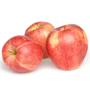
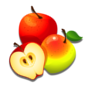
2ème tentative comment + img + title
J'espère que j'ai bien compris le code, sinon j'ai également remplacé et
ajouté les images que j'ai travaillé en ne changeant pas les dimensions
et le format (elles ont un fond transparent) et ajouté l'image du titre
"smoothlife" et non "smoothie life" (cependant là les deux images sont
présentes dans le dossier je saurais pas expliqué pourquoi)

diff --git a/smoothies/make.js b/smoothies/make.js
@@ -1,3 +1,4 @@
+// Le but des fonctions specifiques a cette page est de permettre au client de creer un smoothie et devant toujours contenir un Green, un fruit 1 un fruit 2 et un complement ou graines le tout ayant un certain prix individuel et additionner//
 Meteor.methods({
 	'createSmoothie': function(oGreen, oFruit1, oFruit2, oSeed, oPrice){
 		check();
@@ -10,6 +11,7 @@ Meteor.methods({
 		});
 	}
 });
+//va chercher dans la base de donnee et liste pour l'utilisateur les Green, fruits, grains presents//
 if (Meteor.isClient){
 Template.make.helpers({
 	'greenList': function(){
@@ -24,6 +26,7 @@ Template.make.helpers({
 		var type="Seed";
 			return ingredients.find({typ: type});
 	},
+	// Donne a l'utilisateur la quantite finale//
 	'sumQty': function(){
 		if (isNaN(Session.get('greenQty'))) {
 			var greenQty = 0;
@@ -52,6 +55,7 @@ Template.make.helpers({
 		var sumQty = greenQty + fruit1Qty + fruit2Qty + seedQty;
 		return sumQty;
 	},
+	// Donne a l'utilisateur les calories finales //
 	'sumCal': function(){
 		if (isNaN(Session.get('greenCal'))) {
 			var greenCal = 0;
@@ -80,6 +84,7 @@ Template.make.helpers({
 		var sumCal = greenCal + fruit1Cal + fruit2Cal + seedCal;
 		return sumCal;
 	},
+	// Donne a l'utilisateur le prix final
 	'sumPri': function(){
 		if (isNaN(Session.get('greenPri'))) {
 			var greenPri = 0;
@@ -122,6 +127,7 @@ Template.make.events({
 		/* Call Method to Create Smoothie in Collection */
 		Meteor.call('createSmoothie', oGreen, oFruit1, oFruit2, oSeed, oPrice);
 	},
+	// la fonction permettant de refaire le formulaire et donc de recreer le smoothie//
 	'reset form': function(){
 		Session.set('greenQty', 0);
 		Session.set('greenCal', 0);
@@ -153,6 +159,7 @@ Template.make.events({
 		document.getElementById("SeedImg").innerHTML="<img class=\"icoIng\" src=\"img/blankIco.png\">";
 
 	},
+	// permet a l'utilisateur de changer le Green a tout moment//
 	'change .greenOption': function(){
 		var greenOption = document.getElementById("Green").value;
 		var oGreen = ingredients.findOne({nam: document.getElementById("Green").value});
@@ -178,6 +185,7 @@ Template.make.events({
 			document.getElementById("GreenImg").innerHTML="<img class=\"icoIng\" src=\"img/blankIco.png\">";
 		}
 	},
+	 // permet a l'utilisateur de changer le Fruit 1 a tout moment//
 	'change .fruit1Option': function(){
 		var fruit1Option = document.getElementById("Fruit1").value;
 		var oFruit1 = ingredients.findOne({nam: document.getElementById("Fruit1").value});
@@ -203,6 +211,7 @@ Template.make.events({
 			document.getElementById("Fruit1Img").innerHTML="<img class=\"icoIng\" src=\"img/blankIco.png\">";
 		}
 	},
+	// permet a l'utilisateur de changer le Fruit 2 a tout moment//
 	'change .fruit2Option': function(){
 		var fruit2Option = document.getElementById("Fruit2").value;
 		var oFruit2 = ingredients.findOne({nam: document.getElementById("Fruit2").value});
@@ -228,6 +237,7 @@ Template.make.events({
 			document.getElementById("Fruit2Img").innerHTML="<img class=\"icoIng\" src=\"img/blankIco.png\">";
 		}
 	},
+	// permet a l'utilisateur de changer les graines ou complement a tout moment//
 	'change .seedOption': function(){
 		var seedOption = document.getElementById("Seed").value;
 		var oSeed = ingredients.findOne({nam: document.getElementById("Seed").value});

diff --git a/smoothies/make.html b/smoothies/make.html
@@ -1,10 +1,12 @@
 <template name='make'>
+<!-- contrôle que l'utilisateur soit connecter-->
 	{{#if currentUser}}
 		<div class="tableContainer">
 		<table>
 			<tr class="smoothieOrderTr">
 				<td class="thtd3left"><a href="/"><img src="img/smoothlife_title.jpg"></a></td>
 				<td class="thtd3center"><h2>MAKE YOUR SMOOTHIE</h2></td>
+				<!--permet à l'utilisateur de se connecter-->
 				<td class="thtd3right">{{> loginButtons}}</td>
 			</tr>
 		</table>
@@ -13,6 +15,7 @@
 	<form>
 		<table width="100%">
 			<tr class="smoothieOrderTr">
+			<!--affiche le tableau qui contiendra les infos, prix, image, etc, des ingredients du smoothie voulu-->
 				<th class="smoothieOrderTh">Ingredients</th>
 				<th class="smoothieOrderTh">Quantity [g]</th>
 				<th class="smoothieOrderTh">Calories [kcal]</th>
@@ -30,7 +33,7 @@
       				{{/each}}
     			</select>
     		</div>
-    	</td>		
+    	</td>	<!--permet à l'utilisateur de choisir son Green, avec les differentes infos qui sont associer-->	
 		<td class="smoothieOrderTd" id="GreenQty"></td>
 		<td class="smoothieOrderTd" id="GreenCal"></td>
 		<td class="smoothieOrderTd" id="GreenPri"></td>
@@ -47,7 +50,7 @@
       				{{/each}}
     			</select>
     		</div>
-    	</td>
+    	</td> <!--permet à l'utilisateur de choisir son fruit numero 1, avec les differentes infos qui sont associer-->
 		<td class="smoothieOrderTd" id="Fruit1Qty"></td>
 		<td class="smoothieOrderTd" id="Fruit1Cal"></td>
 		<td class="smoothieOrderTd" id="Fruit1Pri"></td>
@@ -64,6 +67,7 @@
       				{{/each}}
     			</select>
     		</div>
+    		<!--permet à l'utilisateur de choisir son fruit numero 2, avec les differentes infos qui sont associer-->
     	</td>
 		<td class="smoothieOrderTd" id="Fruit2Qty"></td>
 		<td class="smoothieOrderTd" id="Fruit2Cal"></td>
@@ -81,6 +85,7 @@
       			{{/each}}
     		</select>
     		</div>
+    		<!--permet à l'utilisateur de choisir le complement, les graines, avec les differentes infos qui sont associer-->
     	</td>
 		<td class="smoothieOrderTd" id="SeedQty"></td>
 		<td class="smoothieOrderTd" id="SeedCal"></td>
@@ -95,6 +100,7 @@
 		<input type="reset" value="Reset">
 		</div>
 		</td>
+		<!--affiche le resultats, le resume, avec les differents element selectionner par l'utilisateur et l'additions des calories prix etc.-->
 		<td class="smoothieOrderTd" id="sumQty">{{sumQty}} g</td>
 		<td class="smoothieOrderTd" id="sumCal">{{sumCal}} kcal</td>
 		<td class="smoothieOrderTd" id="sumPri">{{sumPri}} Frs.</td>
@@ -104,6 +110,7 @@
 	</form>
 	</div>
 	{{else}}
+	<!-- oblige à l'utilisateur de se connecter-->
 		<p class="logo">Please Sign in or Create account.
 		<br><br>{{> loginButtons}}</p>
 		{{/if}}

diff --git a/smoothies/menu.html b/smoothies/menu.html
@@ -1,10 +1,12 @@
 <template name='menu'>
+<!-- contrôle que l'utilisateur soit connecter-->
 	{{#if currentUser}}
     <div class="tableContainer">
     <table>
       <tr class="smoothieOrderTr">
         <td class="thtd3left"><a href="/"><img src="img/smoothlife_title.jpg"></a></td>
         <td class="thtd3center"><h2>CHOOSE A SMOOTHIE</h2></td>
+        <!--permet à l'utilisateur de se connecter-->
         <td class="thtd3right">{{> loginButtons}}</td>
       </tr>
     </table>
@@ -21,6 +23,7 @@
 <th>Calories [kcal]</th>
 <th>Price [Frs.]</th>
 </tr>
+<!-- l'utilisateur choisit le smoothie parmis la liste du menu-->
 {{#each smoothiesList}}
 <tr class="smoothiesList {{selectedSmoothieClass}}">
 	<td>{{name}}</td>
@@ -40,6 +43,7 @@
 <br>
 <div class="tableContainer">
 	<table>
+	<!-- affiche le tableau de presentation du smoothie predefini avec ses infos-->
 		<tr class="smoothieTopTr">
 			<th class="menuTop" id="menuSmoothieName"></th>
 			<th class="menuTop" id="menuSmoothiePrice"></th>
@@ -50,7 +54,8 @@
 			<th class="menuTopTd" id="priTitle"></th>
 			<th class="menuTopTd" id="imgTitle"></th>
 		</tr>
-		<tr class="smoothieOrderTr">
+		<!-- affiche le Green predefini avec ses infos-->
+		<tr class="smoothieOrderTr"> 
 			<td rowspan="5" colspan="2" id="sImg" class="menuImgContainer"></td>
 			<td id="greenTitle" class="title"></td>
 			<td id="greenName" class="menuSmoothieTd"></td>
@@ -59,6 +64,7 @@
 			<td id="greenPri" class="menuSmoothieTd"></td>
 			<td id="greenImg" class="menuSmoothieTd"></td>
 		</tr>
+		<!-- affiche le Fruit 1 predefini avec ses infos-->
 		<tr class="smoothieOrderTr">
 			<td id="fruit1Title" class="title"></td>
 			<td id="fruit1Name"></td>
@@ -67,6 +73,7 @@
 			<td id="fruit1Pri"></td>
 			<td id="fruit1Img"></td>
 		</tr>
+		<!-- affiche le Fruit 2 predefini avec ses infos-->
 		<tr class="smoothieOrderTr">
 			<td id="fruit2Title" class="title"></td>
 			<td id="fruit2Name"></td>
@@ -75,6 +82,7 @@
 			<td id="fruit2Pri"></td>
 			<td id="fruit2Img"></td>
 		</tr>
+		<!-- affiche les graines predefinies avec leurs infos-->
 		<tr class="smoothieOrderTr">
 			<td id="seedTitle" class="title"></td>
 			<td id="seedName"></td>
@@ -86,6 +94,7 @@
 		<tr class="smoothieOrderTr">
 			<td></td>
 			<td></td>
+			<!-- affiche resume, resultat, avec infos finales-->
 			<td id="sumMenuQty"></td>
 			<td id="sumMenuCal"></td>
 			<td id="sumMenuPri"></td>
@@ -93,6 +102,7 @@
 		</tr>
 	</table>
 	</div>
+	<!-- oblige a l'utilisateur de se connecter-->
 			{{else}}
 		<p class="logo">Please Sign in or Create account.
 		<br><br>{{> loginButtons}}</p>

diff --git a/style/styles.css b/style/styles.css
@@ -8,6 +8,7 @@
   	background-image: -webkit-gradient(linear, left top, left bottom, from(#b44ae2), to(#6f049e));
     background-image: linear-gradient(to bottom, #b44ae2 0%, #6f049e 100%);
 }
+/* Tout ce qui concerne le style des tables*/
 table {
     border-collapse: collapse;
     width: 100%;
@@ -37,6 +38,7 @@ select {
     background-color: #f1f1f1;
     outline: none;
 }
+/* La partie qui s'occupe de gerer les styles des different input et bouttons*/
 input[type="submit"], button, .addIngredient, .createMenuSmoothie {
 	border-radius: 4px;
     background-image: -webkit-linear-gradient(top, #2ccb16 0%, #1f8f10 100%);
@@ -51,7 +53,7 @@ input[type="submit"], button, .addIngredient, .createMenuSmoothie {
     display: inline-block;
     font-size: 14px;
     outline: none;   
-}
+}/* le bouton pour annuler les differentes options, la commande les ingredients le smoothie*/
 input[type="reset"], .removeOrder, .removeIngredient, .removeSmoothie {
 	border-radius: 4px;
     background-image: -webkit-linear-gradient(top, #e82e30 0%, #a72122 100%);
@@ -67,6 +69,7 @@ input[type="reset"], .removeOrder, .removeIngredient, .removeSmoothie {
     font-size: 14px;
     outline: none;   
 }
+/* Plus generalement on gere les styles en modifiant les tailles, en bougeant les elements de maniere a rendre les pages presentables (titres textes images etc)*/
 .spaceDiv {
 	width: 230px;
 	padding: 5px 10px;
@@ -242,6 +245,7 @@ h2, .logo {
     border-bottom: none;
   }
 }
+/* on modifie la police pour ces element*/
 a {
   font-family: 'Raleway';
   font-weight: bold;

diff --git a/smoothies/orders.html b/smoothies/orders.html
@@ -1,16 +1,19 @@
 <template name='userOrders'>
+<!-- contrôle que l'utilisateur soit connecter-->
 	{{#if currentUser}}
 		<div class="tableContainer">
 		<table>
 			<tr class="smoothieOrderTr">
 				<td class="thtd3left"><a href="/"><img src="img/smoothlife_title.jpg"></a></td>
 				<td class="thtd3center"><h2>MY ORDERS</h2></td>
+				<!--permet à l'utilisateur de se connecter-->
 				<td class="thtd3right">{{> loginButtons}}</td>
 			</tr>
 		</table>
 	</div>
 		<div class="tableContainer">
 	<table>
+	<!--Ici le client peut voir sa commande avec les differents ingredient le prix et la date-->
 		<tr>
 			<th class="thtd6">Green</th>
 			<th class="thtd6">Fruit 1</th>
@@ -32,8 +35,10 @@
 	</table>
 	<br>
 	<button class="removeOrder">Remove Order</button>
+	<!--permet à l'utilisateur d'annuler la commande pour la modifier'-->
 	</div>
 		{{else}}
+		<!-- oblige à l'utilisateur de se connecter-->
 		<p class="logo">Please Sign in or Create account.
 		<br><br>{{> loginButtons}}</p>
 		{{/if}}

diff --git a/smoothies/menu.js b/smoothies/menu.js
@@ -1,3 +1,6 @@
+// Le but des fonctions specifiques a cette page est de permettre au client de choisir parmis les smoothies  du menu//
+// devant toujours contenir un Green, un fruit 1 un fruit 2 et un complement ou graines le tout ayant un prix et des calories//
+Meteor.methods({
 Meteor.methods({
 	'insertMenuSmoothie': function(sGreen, sFruit1, sFruit2, sSeed, sPrice){
 		check();
@@ -10,7 +13,7 @@ Meteor.methods({
 		});
 	}
 });
-
+//va chercher dans la base de donnee et liste pour l'utilisateur des smoothie du menu//
 if (Meteor.isClient) {
 	Template.menu.helpers({
 		'smoothiesList': function(){
@@ -23,6 +26,7 @@ if (Meteor.isClient) {
 				return "selectedStyle";
 			}
 		},
+		// les differentes fonctions pour la quantite, les calories et le prix
 		'smoothieQty': function(){
 			var sQty = this.green.qty + this.fruit1.qty + this.fruit2.qty + this.seed.qty;
 			return sQty;

diff --git a/smoothies/orders.js b/smoothies/orders.js
@@ -8,19 +8,19 @@ if (Meteor.isClient){
 		'smoothieList': function(){
 			var userId=Meteor.userId();
 			return smoothies.find({orderBy: userId}, {sort: {orderAt: -1}});
-		},
+		},// Permet d'afficher les choix du client sur l'HTML //
 		'selectedOrderClass': function(){
 			var orderId = this._id;
 			var selectedOrder = Session.get('selectedOrder');
 			if (orderId == selectedOrder){
 				return "selectedStyle";
 			}
-		},
+		}, // Donne la date au client lors de la finalisation de sa commande//
 		'LDT': function(date){
         	if(date)
             	return moment(date).format('l LT');
     	}
-	});
+	});// La fonction qui permet d'annuler la commande//
 	Template.userOrders.events({
 		'click .removeOrder': function(){
 			var selectedOrder = Session.get('selectedOrder');

diff --git a/server/server.js b/server/server.js
@@ -1,6 +1,6 @@
 Meteor.publish('ingredientsPublish', function(){
 	return ingredients.find();
-});
+}); // Ici on demande a Meteor de publier les differents elements selectionner du serveur chez le client//
 Meteor.publish('smoothiesPublish', function(){
 	var currentUserId = this.userId;
 	return smoothies.find({ orderBy: currentUserId });

diff --git a/style/specialfonts.css b/style/specialfonts.css
@@ -1,3 +1,4 @@
+/* Ici on trouve tout ce qui concerne les polices ajoutees, en l'occurence Raleway dans differents styles et tailles */
 /* latin-ext */
 @font-face {
   font-family: 'Raleway';
